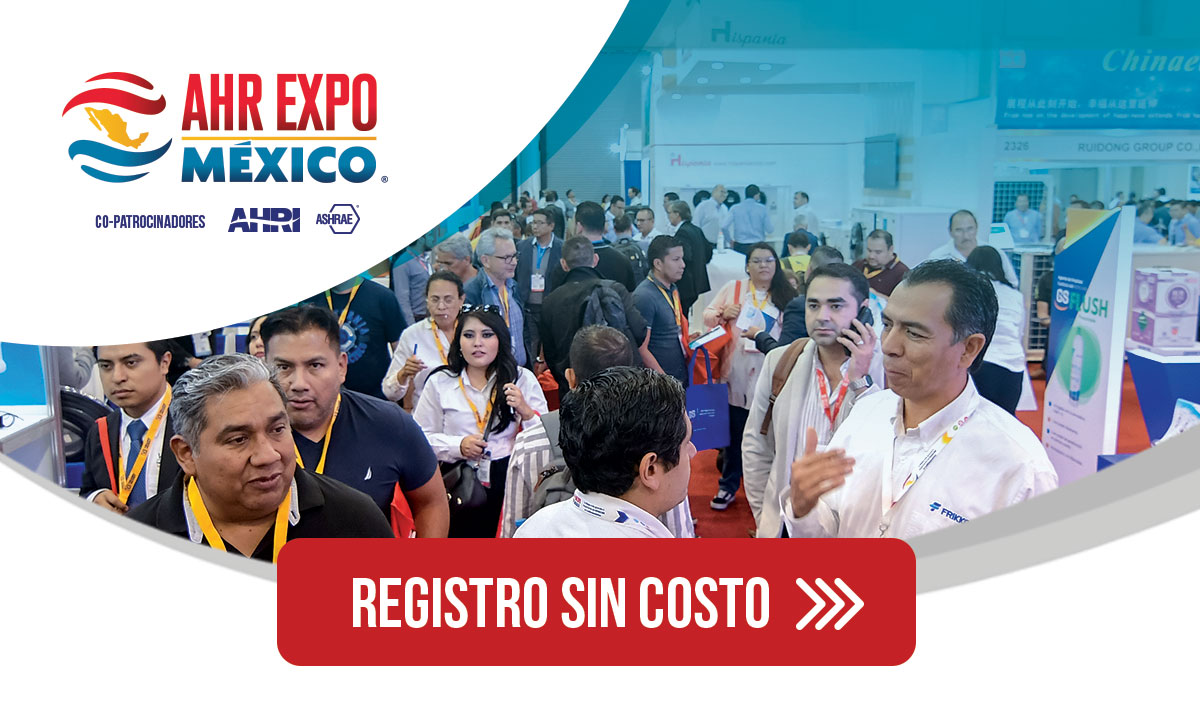
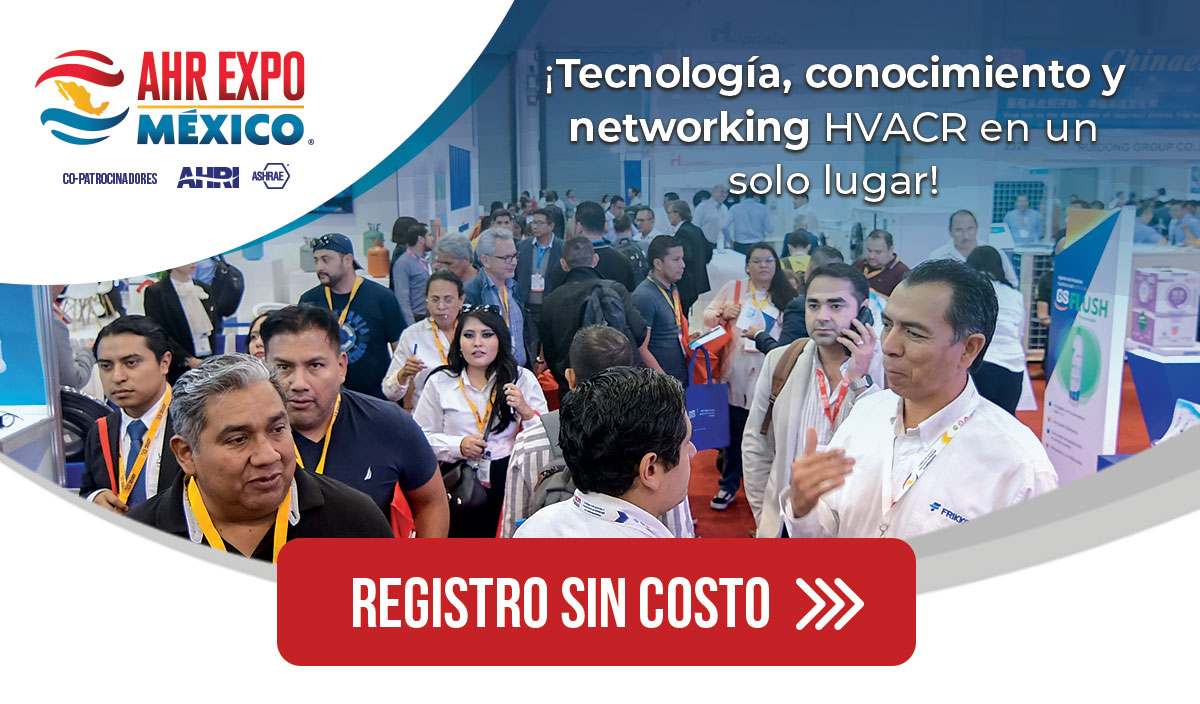
update email blasting 2/3

Changed region(s): [[0.0, 0.0, 1.0, 0.5]]

diff --git a/web/web-ahrmx-emailblast-2.html b/web/web-ahrmx-emailblast-2.html
@@ -1,0 +1,204 @@
+<!DOCTYPE html PUBLIC "-//W3C//DTD XHTML 1.0 Transitional//EN" "http://www.w3.org/TR/xhtml1/DTD/xhtml1-transitional.dtd">
+<html>
+<head>
+<meta http-equiv="Content-Type" content="text/html; charset=UTF-8" />
+<title>AHR EXPO MÉXICO 2025</title>
+<meta name="viewport" content="width=device-width, initial-scale=1.0"/>
+
+    <!--[if (gte mso 9)|(IE)]>
+    <style type="text/css">
+        table {border-collapse: collapse;}
+    </style>
+    <![endif]-->
+
+  <style>
+    table {border-collapse:separate;}
+    a, a:link, a:visited {text-decoration: none; color: #00788a;} 
+    a:hover {text-decoration: none;}
+    h2,h2 a,h2 a:visited,h3,h3 a,h3 a:visited,h4,h5,h6,.t_cht {color:#000 !important;}
+    img { 
+      outline:none; 
+      text-decoration:none; 
+      -ms-interpolation-mode: bicubic;
+      max-width: 100%; 
+      float: left; 
+      clear: both; 
+      display: block;
+      border-style: none;
+    }
+    .ExternalClass p, .ExternalClass span, .ExternalClass font, .ExternalClass td {line-height: 100%;}
+    .ExternalClass {width: 100%;}
+    @import url('https://fonts.googleapis.com/css?family=Roboto');
+  </style>
+</head>
+
+	<body style="Margin: 0; padding: 0; background-color: #f3f3f3;">	
+
+    <table width="100%" border="0" style="font-family: Sans-Serif;" cellspacing="0">
+      <tr>
+        <td style="background-color: f6f4f5;" bgcolor="#f6f4f5"></td>
+        <td width="600px" style="max-width: 600px;">  
+
+                
+          <table border="0" align="center" cellpadding="0" cellspacing="0" width="100%" style="margin: 0px; background-color: #fff;">
+            <tr>
+              <td>
+                <a href="https://www.ahrexpomexico.com/registro" target="_blank">
+                   <img src="https://www.ahrexpomexico.com/mailing/email-blasting/02/email-blasting_01.jpg" width="100%" alt="AHR EXPO MÉXICO 2025">
+                </a>
+              </td>
+            </tr>
+
+            <tr>
+              <td align="left" style="text-align: left; padding: 0 45px;">
+                <table>
+
+                  <tr>
+                    <td>
+                        <p style="font-size: 18px; color: #666; text-align: left; font-family: Roboto, Helvetica Neue, Helvetica; padding: 0px; margin: 0px; padding-top: 25px;">
+                          Hola, <br><br>
+                          ¿Aún no te has registrado a la <strong>AHR Expo México<span style="font-size: 75%; padding-left: 1px;"><sub style="position: relative;	vertical-align: baseline;top: -.5em;">®</sub></span></strong> 2025? <br><br>
+                          Aquí tienes <strong><span style="color: #273471;">3 poderosas razones</span></strong> para hacerlo hoy mismo:
+                        </p>
+                    </td>
+                  </tr>
+
+                  <tr>
+                    <td style="border-bottom: solid 1px #ccc; padding:15px 45px;">
+
+                    </td>
+                  </tr>
+
+                  <tr>
+                    <td>
+                        <p style="font-size: 16px; color: #666; text-align: left; font-family: Roboto, Helvetica Neue, Helvetica; padding: 0px; margin: 0px; padding-top: 25px;">
+                         <strong><span style="color: #273471;">3 RAZONES PARA NO PERDERTE <strong>AHR EXPO MÉXICO<span style="font-size: 75%; padding-left: 1px;"><sub style="position: relative;	vertical-align: baseline;top: -.5em;">®</sub></span></strong> 2025</span></strong><br><br>
+
+
+                          <strong>1. La mayor expo HVACR de Latinoamérica</strong><br>
+                          Más de 530 expositores y 1,200 marcas nacionales e internacionales presentando lo último en climatización, ventilación, automatización, refrigeración y eficiencia energética.<br><br>
+                          <strong>2. Un programa de conferencias único</strong><br>
+                          Accede a más de 60 conferencias técnicas gratuitas con expertos internacionales en temas clave para tu desarrollo profesional.
+                          Regístrate aquí: <a href="https://conferenciasashrae.com" style="color: #0000EE; text-decoration:underline" target="_blank">https://conferenciasashrae.com</a><br><br>
+                          <strong>3. Un evento que no volverá a Monterrey en 4 años</strong> <br>
+                          Este septiembre, la expo regresa a CINTERMEX y será más grande que nunca. ¡No dejes pasar esta oportunidad!<br>
+
+                        </p>
+                    </td>
+                  </tr>
+
+                </table>
+              </td>
+            </tr>
+
+            <tr>
+              <td style="padding: 0 45px;">
+                <img src="https://www.ahrexpomexico.com/mailing/email-blasting/02/email-blasting_03.jpg" width="100%" alt="AHR EXPO MÉXICO 2025" style="padding-top: 35px;">
+              </td>
+            </tr>
+            <tr>
+
+            <tr>
+              <td align="left" style="text-align: left; padding: 0 45px;">
+                <table>
+
+                  <tr>
+                    <td>
+                        <p style="font-size: 16px; color: #666; text-align: left; font-family: Roboto, Helvetica Neue, Helvetica; padding: 0px; margin: 0px; padding-top: 0px;">
+                         <strong><span style="color: #273471;">¿Ya conoces nuestro blog?</span></strong><br><br>
+
+
+                          Explora artículos especializados para mantenerte actualizado sobre la industria HVACR.S<br><br>
+                          
+                          🔹 7 tecnologías que están revolucionando el sector HVACR <br>
+                          🔹 ¿Por qué la manufactura necesita climatización inteligente? <br><br>
+
+                           Descúbrelo aquí: <a href="http://www.ahrexpomexico.com/blog"  style="color: #0000EE; text-decoration:underline" target="_blank">www.ahrexpomexico.com/blog</a>
+
+                        </p>
+                    </td>
+                  </tr>
+
+                </table>
+              </td>
+            </tr>
+              
+              <td align="center" style="text-align: center;">
+                <table style="max-width: 450px; margin: 0 auto;">
+                  <tr>
+                    <td>
+                      <p style="font-size: 24px; color: #263571; text-align: center; font-family: Roboto, Helvetica Neue, Helvetica; padding-top: 45px;"><strong>REGÍSTRATE GRATIS AHORA</strong></p>
+                    </td>
+                  </tr>
+                </table>
+              </td>
+            </tr>
+            <tr>
+              <td>
+                <a href="https://www.ahrexpomexico.com/registro" target="_blank">
+                    <img src="https://www.ahrexpomexico.com/mailing/trades/2025/trade-refrinoticias/images/envio-1/ahrmx-trades-envio-1_14.jpg" width="100%" alt="AHR EXPO MÉXICO 2025">
+                </a>
+              </td>
+            </tr>
+
+            <tr>
+              <td align="center" style="text-align: center; padding: 0 45px;">
+                <table width="100%" style="width: 100%;">
+
+                  <tr>
+                    <td>
+                        <p style="font-size: 16px; color: #666; text-align: center; font-family: Roboto, Helvetica Neue, Helvetica; padding-top: 35px;">
+
+                          <strong><strong>AHR Expo México<span style="font-size: 75%; padding-left: 1px;"><sub style="position: relative;	vertical-align: baseline;top: -.5em;">®</sub></span></strong> 2025</strong><br>
+                          CINTERMEX, Monterrey<br>
+                          23 – 25 de septiembre<br>
+                          <a href="mailto:contacto@ahrexpomexico.com"  style="color: #0000EE; text-decoration:underline" target="_blank">contacto@ahrexpomexico.com</a><br>
+                          <a href="tel:+528183550809" style="color: #0000EE; text-decoration:underline" target="_blank">(81) 8355-0809</a><br>
+
+                        </p>
+                        <br><br><br>
+                    </td>
+                  </tr>
+
+                </table>
+              </td>
+            </tr>
+
+            <tr>
+              <td style="padding:10px; background-color: #1f2b7b;" bgcolor="#1f2b7b" >
+
+                <table bgcolor="#1f2b7b" style="width:100%;border-collapse:collapse;border:0;border-spacing:0; ">
+                  <tr>
+                    <td style="padding: 15px 25px; width:60%;" width="60%">
+                      <a href="https://www.ahrexpomexico.com/">
+                        <img src="https://www.ahrexpomexico.com/mailing/email-blasting/images-template/footer-logo-fecha-esp.png" width="100%" alt="AHR EXPO MÉXICO 2025" style="width: 100%;">
+                      </a>
+                    </td>
+                    <td width="40%" style="padding: 15px 25px; width: 40%;">
+                      <table width="100%" style="width: 100%;">
+                        <tr>
+                          <td> <a href="https://www.facebook.com/AHRExpoMexico" target="_blank"><img src="https://www.ahrexpomexico.com/mailing/email-blasting/images-template/ico-facebook.png" alt="AHRExpoMexico" width="25px" style="width: 100%;"></a></td>
+                          <td> <a href="https://twitter.com/ahrexpomexico" target="_blank"><img src="https://www.ahrexpomexico.com/mailing/email-blasting/images-template/ico-x.png" alt="@ahrexpomexico" width="25px" style="width: 100%;"></a></td>
+                          <td> <a href="https://www.instagram.com/ahrexpomexico" target="_blank"><img src="https://www.ahrexpomexico.com/mailing/email-blasting/images-template/ico-instagram.png" alt="@ahrexpomexico" width="25px" style="width: 100%;"></a></td>
+                          <td> <a href="https://www.tiktok.com/@ahrexpomexico" target="_blank"><img src="https://www.ahrexpomexico.com/mailing/email-blasting/images-template/ico-tiktok.png" alt="@ahrexpomexico" width="25px" style="width: 100%;"></a></td>
+                          <td> <a href="https://www.youtube.com/c/Ahrexpomexico" target="_blank"><img src="https://www.ahrexpomexico.com/mailing/email-blasting/images-template/ico-youtube.png" alt="@ahrexpomexico" width="25px" style="width: 100%;"></a></td>
+                        </tr>
+                        <tr>
+                          <td colspan="5" style="text-align: center;">
+                            <a href="https://www.ahrexpomexico.com" style="font-size: 12px; color: #ffffff; text-align: center; text-decoration: none;font-family: Arial, Helvetica, sans-serif;">www.ahrexpomexico.com</a>
+                          </td>
+                        </tr>
+                      </table>
+                    </td>
+                  </tr>
+                </table>
+
+              </td>
+            </tr>
+          </table>
+        </td>
+        <td style="background-color: f6f4f5;" bgcolor="#f6f4f5"></td>
+      </tr>
+    </table>
+</body>
+</html>
